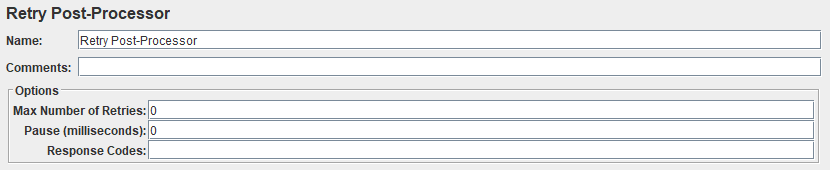
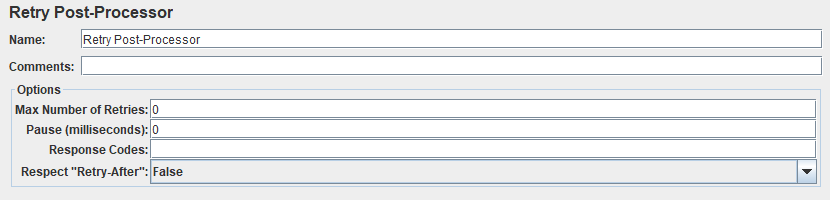
Add "Retry-After" header handling

Changed region(s): [[0.0, 0.2941, 0.994, 0.9706], [0.0, 0.0294, 0.994, 0.2941], [0.0, 0.1765, 0.0602, 0.2647]]

diff --git a/src/main/java/nz/co/breakpoint/jmeter/modifiers/RetryPostProcessor.java b/src/main/java/nz/co/breakpoint/jmeter/modifiers/RetryPostProcessor.java
@@ -9,6 +9,12 @@ import org.apache.jmeter.threads.JMeterContext;
 import org.apache.jmeter.util.JMeterUtils;
 import org.slf4j.LoggerFactory;
 import org.slf4j.Logger;
+
+import java.time.Instant;
+import java.time.ZonedDateTime;
+import java.time.format.DateTimeFormatter;
+import java.time.format.DateTimeParseException;
+import java.time.temporal.ChronoUnit;
 import java.util.regex.Matcher;
 import java.util.regex.Pattern;
 
@@ -21,11 +27,14 @@ public class RetryPostProcessor extends AbstractTestElement implements PostProce
     public static final String
             MAX_RETRIES = "maxRetries",
             PAUSE_MILLISECONDS = "pauseMilliseconds",
-            RESPONSE_CODES = "responseCodes";
+            RESPONSE_CODES = "responseCodes",
+            RETRY_AFTER = "retryAfter";
 
     public static final String
             SAMPLE_LABEL_SUFFIX_PROPERTY = "jmeter.retrier.sampleLabelSuffix",
             SAMPLE_LABEL_SUFFIX_PROPERTY_DEFAULT = "-retry";
+
+    public static final Pattern RETRY_AFTER_HEADER_PATTERN = Pattern.compile("\\bRetry-After: (\\V*)"); // word boundary/non-vertical whitespace
 
     @Override
     public void process() {
@@ -65,6 +74,13 @@ public class RetryPostProcessor extends AbstractTestElement implements PostProce
 
     protected boolean pause(SampleResult result) {
         long pause = getPauseMilliseconds();
+        if (getRetryAfter()) {
+            long retryAfter = getDelayUntilRetryAfterHeader(result);
+            if (retryAfter != 0) {
+                pause = Math.max(pause, retryAfter);
+                log.debug("Received \"Retry-After\", waiting {}ms", pause);
+            }
+        }
         if (pause > 0) {
             try {
                 Thread.sleep(pause);
@@ -116,10 +132,26 @@ public class RetryPostProcessor extends AbstractTestElement implements PostProce
         return retry;
     }
 
-    public static String extractRetryAfterHeader(SampleResult result) {
-        Pattern p = Pattern.compile("Retry-After\\s*:\\s*([0-9]+)");
-        Matcher m = p.matcher(result.getResponseHeaders());
-        return m.matches() ? m.group(1) : null;
+    /**
+     * @return milliseconds until the time specified in the header, or 0 in case of no header or already in the past.
+     */
+    public static long getDelayUntilRetryAfterHeader(SampleResult result) {
+        final Matcher m = RETRY_AFTER_HEADER_PATTERN.matcher(result.getResponseHeaders());
+        if (m.find()) {
+            final String value = m.group(1);
+            if (value.matches("^[0-9]+$")) {
+                return Long.parseLong(value) * 1000L; // seconds to millis
+            }
+            try {
+                long millis = Instant.now().until(
+                        ZonedDateTime.parse(value, DateTimeFormatter.RFC_1123_DATE_TIME),
+                        ChronoUnit.MILLIS);
+                return millis > 0 ? millis : 0;
+            } catch (DateTimeParseException e) {
+                log.warn("Ignoring invalid Retry-After header value \"{}\"", value);
+            }
+        }
+        return 0;
     }
 
     public long getMaxRetries() { return getPropertyAsLong(MAX_RETRIES); }
@@ -130,4 +162,7 @@ public class RetryPostProcessor extends AbstractTestElement implements PostProce
 
     public String getResponseCodes() { return getPropertyAsString(RESPONSE_CODES); }
     public void setResponseCodes(String responseCodes) { setProperty(RESPONSE_CODES, responseCodes); }
+
+    public boolean getRetryAfter() { return getPropertyAsBoolean(RETRY_AFTER); }
+    public void setRetryAfter(boolean retryAfter) { setProperty(RETRY_AFTER, retryAfter); }
 }

diff --git a/src/test/java/nz/co/breakpoint/jmeter/modifiers/TestRetryPostProcessor.java b/src/test/java/nz/co/breakpoint/jmeter/modifiers/TestRetryPostProcessor.java
@@ -9,6 +9,9 @@ import org.junit.Test;
 
 import java.time.Duration;
 import java.time.Instant;
+import java.time.ZoneId;
+import java.time.ZonedDateTime;
+import java.time.format.DateTimeFormatter;
 import java.util.Arrays;
 
 import static org.junit.Assert.*;
@@ -144,5 +147,39 @@ public class TestRetryPostProcessor {
         };
         instance.process();
         assertEquals("Expect no sub-results", 0, prev.getSubResults().length);
+    }
+
+    @Test
+    public void itShouldParseAnyRetryAfterHeader() {
+        prev.setResponseHeaders("HTTP/1.1 301 OK\n" +
+                "Retry-After: INVALID\n"
+        );
+        assertEquals(0, instance.getDelayUntilRetryAfterHeader(prev));
+
+        prev.setResponseHeaders("HTTP/1.1 429 OK\n" +
+                "Retry-After: 123"
+        );
+        assertEquals(123000, instance.getDelayUntilRetryAfterHeader(prev));
+
+        final String fiveSecondsLater = DateTimeFormatter.RFC_1123_DATE_TIME.format(
+                ZonedDateTime.ofInstant(Instant.ofEpochMilli(prev.getEndTime() + 5000), ZoneId.of("GMT")));
+        prev.setResponseHeaders("HTTP/1.1 503 OK\n" +
+                "Retry-After: " + fiveSecondsLater + "\n"
+        );
+        assertTrue("At most 5000 milliseconds", 5000 >= instance.getDelayUntilRetryAfterHeader(prev));
+
+        prev.setResponseHeaders("Retry-After: Thu, 01 Jan 1970 00:00:00 GMT\n");
+        assertEquals("Expect zero if in the past", 0, instance.getDelayUntilRetryAfterHeader(prev));
+    }
+
+    @Test
+    public void itShouldRespectRetryAfterHeader() {
+        instance.setRetryAfter(true);
+        instance.setMaxRetries(1);
+        prev.setResponseHeaders("\nRetry-After: 3");
+        Instant start = Instant.now();
+        instance.process();
+        long duration = Duration.between(start, Instant.now()).toMillis();
+        assertTrue("Expect at least 3 sec pause", duration >= 3000);
     }
 }

diff --git a/src/main/java/nz/co/breakpoint/jmeter/modifiers/RetryPostProcessorBeanInfo.java b/src/main/java/nz/co/breakpoint/jmeter/modifiers/RetryPostProcessorBeanInfo.java
@@ -10,7 +10,7 @@ public class RetryPostProcessorBeanInfo extends BeanInfoSupport {
         super(RetryPostProcessor.class);
 
         createPropertyGroup("Options", new String[]{
-                MAX_RETRIES, PAUSE_MILLISECONDS, RESPONSE_CODES,
+                MAX_RETRIES, PAUSE_MILLISECONDS, RESPONSE_CODES, RETRY_AFTER
         });
         PropertyDescriptor p;
 
@@ -25,5 +25,9 @@ public class RetryPostProcessorBeanInfo extends BeanInfoSupport {
         p = property(RESPONSE_CODES);
         p.setValue(NOT_UNDEFINED, Boolean.TRUE);
         p.setValue(DEFAULT, "");
+
+        p = property(RETRY_AFTER);
+        p.setValue(NOT_UNDEFINED, Boolean.TRUE);
+        p.setValue(DEFAULT, Boolean.FALSE);
     }
 }

diff --git a/README.md b/README.md
@@ -52,6 +52,8 @@ Parameters:
 - *Max Number of Retries*: Positive number limits the number of retries, negative retries infinitely, zero means no retries (default: 0).
 - *Pause (milliseconds)*: How long to pause before retrying the sampler or zero for no pause (default: 0).
 - *Response Codes*: Regex of response codes for which to retry, or empty to retry any unsuccessful sample result (default: empty).
+- *Respect "Retry-After":* Whether to respect an HTTP response header "Retry-After" before retrying (default: False).
+If a *Pause* is defined as well, the greater of the two values will be used.  
 
 ![Options](docs/retry-postprocessor.png)
 
